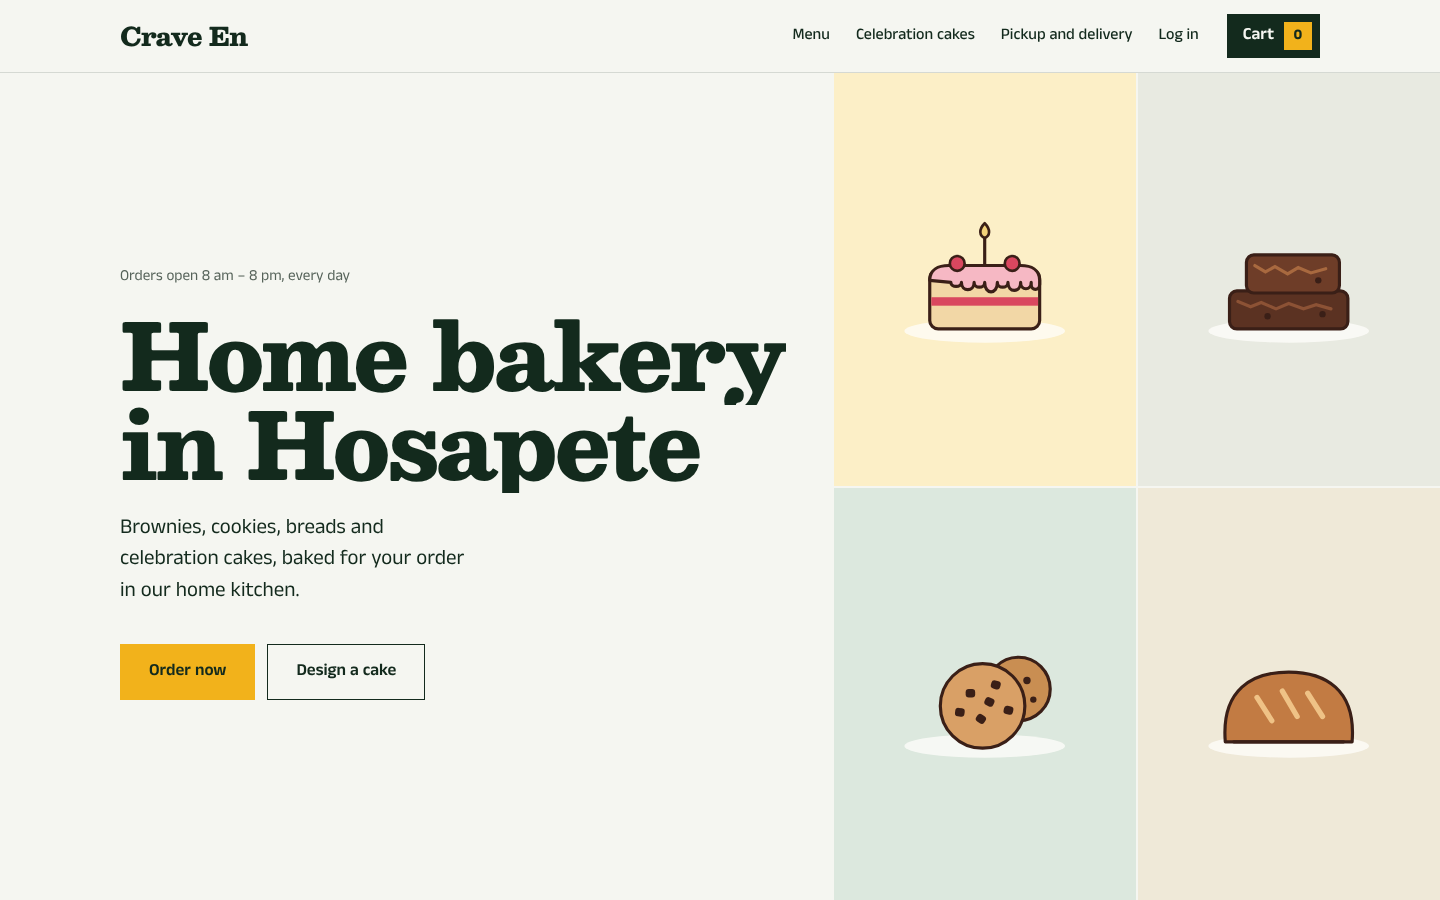
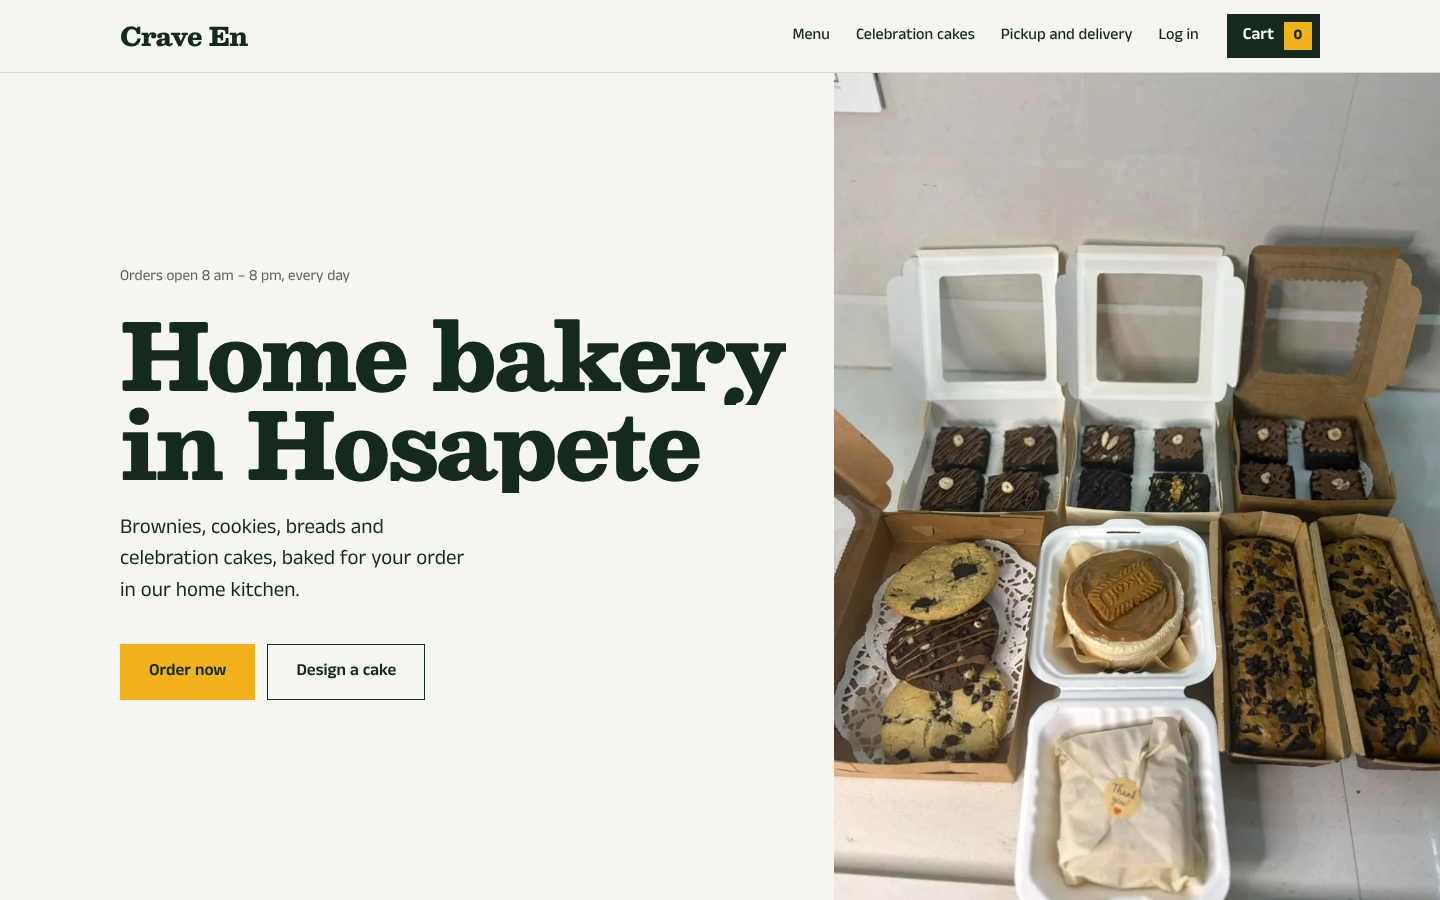
Add the bakery's own photos

diff --git a/client/src/photos.js b/client/src/photos.js
@@ -1,27 +1,39 @@
-// The bakery's own photographs for the home page.
-// Put the files in client/public/photos/ and write their paths here, e.g. '/photos/hero.jpg'.
+// The bakery's own photographs. The files live in client/public/photos/.
 // While a slot is null, the page shows the drawn bakes in its place.
-// Product photos are set per product in "Manage menu" (or by the photo script), not here.
 
 export const PHOTOS = {
-  // A wide shot of several bakes together, top of the home page
-  hero: null,
-  // Celebration cakes you have made (first one gets the message preview)
-  cakes: [null],
+  // Several bakes together, top of the home page
+  hero: '/photos/home/hero.webp',
+  // Celebration cakes (the first one gets the live message preview)
+  cakes: ['/photos/home/cake.webp'],
   // How an order is made: one photo per step, in order
-  process: [null, null, null, null],
-  // Packing or handing over an order
-  visit: null,
+  process: [
+    '/photos/home/step-1.webp',
+    '/photos/home/step-2.webp',
+    '/photos/home/step-3.webp',
+    '/photos/home/step-4.webp',
+  ],
+  // An order at its celebration
+  visit: '/photos/home/visit.webp',
 }
 
 export const PHOTO_ALT = {
-  hero: 'Brownies, cookies and a celebration cake from Crave En on the kitchen counter',
-  cakes: ['A celebration cake from Crave En'],
+  hero: 'Boxes of brownies, cookies, a biscoff cheesecake and chocolate chip loaves from Crave En',
+  cakes: ['A blue and white birthday cake with sugar flowers'],
   process: [
-    'Batter being mixed for an order',
-    'A tray of bakes coming out of the oven',
-    'A cake being finished by hand',
-    'An order packed in a box, ready to go',
+    'A bento cake with a pink number 11, in its box',
+    'A retirement cake decorated with a post box, calculator and "35 years of service"',
+    'A freshly made hazelnut brownie tub, held up to the camera',
+    'Boxes of hazelnut brownies and chocolate cupcakes, packed to go',
   ],
-  visit: 'An order packed and ready for pickup',
+  visit: 'A cheesecake on a brownie cake with strawberries, set out at a party table',
+}
+
+// Photos for menu items, by product slug. A photo the owner uploads in
+// "Manage menu" always wins; items without either show their drawing.
+export const PRODUCT_PHOTOS = {
+  'fudgy-chocolate-brownie': '/photos/menu/fudgy-chocolate-brownie.webp',
+  'chocolate-fudge-squares': '/photos/menu/chocolate-fudge-squares.webp',
+  'choco-chip-cookies': '/photos/menu/choco-chip-cookies.webp',
+  'vanilla-celebration-cake': '/photos/menu/vanilla-celebration-cake.webp',
 }

diff --git a/client/src/index.css b/client/src/index.css
@@ -213,7 +213,7 @@ p { margin: 0 0 0.8em; text-wrap: pretty; }
   margin-right: calc(-1 * max(var(--gutter), (100vw - var(--wrap)) / 2));
   background: var(--counter);
 }
-.hero-photo > img { position: absolute; inset: 0; width: 100%; height: 100%; object-fit: cover; }
+.hero-photo > img { position: absolute; inset: 0; width: 100%; height: 100%; object-fit: cover; object-position: 50% 62%; }
 
 /* Until real photos arrive: today's bakes as illustrations on a counter */
 .counter-fallback {
@@ -310,6 +310,7 @@ p { margin: 0 0 0.8em; text-wrap: pretty; }
   font-family: var(--display); font-weight: 700; font-size: clamp(1rem, 2.2vw, 1.375rem);
   color: var(--kumkum); text-align: center; line-height: 1.15; overflow-wrap: anywhere;
 }
+.cake-plaque-note { display: block; margin-top: 2px; font-family: var(--text); font-weight: 600; font-size: 0.8rem; color: var(--ink); }
 .cake-candles { position: absolute; top: 11%; display: flex; gap: 7px; }
 .candle {
   display: block; width: 7px; height: 32px; position: relative; transform-origin: bottom;
@@ -372,7 +373,7 @@ p { margin: 0 0 0.8em; text-wrap: pretty; }
 .visit-slots li { padding: 2px 0; }
 .visit-actions { display: flex; gap: 12px; flex-wrap: wrap; margin-top: 32px; }
 .visit-photo { grid-column: 7 / -1; position: relative; margin: 0; background: var(--counter); min-height: 320px; }
-.visit-photo > img { position: absolute; inset: 0; width: 100%; height: 100%; object-fit: cover; }
+.visit-photo > img { position: absolute; inset: 0; width: 100%; height: 100%; object-fit: cover; object-position: 50% 55%; }
 .visit-photo .product-art { position: absolute; inset: 0; }
 .visit-photo .product-art svg { width: 56%; }
 

diff --git a/client/src/components/ProductArt.jsx b/client/src/components/ProductArt.jsx
@@ -1,6 +1,7 @@
 import { useState } from 'react'
 import { motion } from 'motion/react'
 import { assetUrl } from '../utils'
+import { PRODUCT_PHOTOS } from '../photos'
 
 const INK = '#3a1f17'
 const S = { stroke: INK, strokeWidth: 3, strokeLinejoin: 'round', strokeLinecap: 'round' }
@@ -212,6 +213,12 @@ const ART = {
 }
 
 // layoutId lets the picture morph between the menu card and the product sheet.
+// The picture to show for a product: the owner's upload, else the bakery's own photo of it
+export function productPhoto(product) {
+  if (product?.imageUrl) return assetUrl(product.imageUrl)
+  return PRODUCT_PHOTOS[product?.slug] || null
+}
+
 export default function ProductArt({ product, className = '', eager = false, plate: plateOverride, layoutId, artRef, radius }) {
   const [imageFailed, setImageFailed] = useState(false)
   const plate = plateOverride || PLATE_COLORS[product.category] || '#f3d27a'
@@ -219,11 +226,12 @@ export default function ProductArt({ product, className = '', eager = false, pla
   const Wrapper = layoutId ? motion.div : 'div'
   const wrapperProps = layoutId ? { layoutId, transition: { type: 'spring', stiffness: 260, damping: 30 } } : {}
 
-  if (product.imageUrl && !imageFailed) {
+  const photo = productPhoto(product)
+  if (photo && !imageFailed) {
     return (
       <Wrapper ref={artRef} className={`product-art ${className}`} style={style} {...wrapperProps}>
         <img
-          src={assetUrl(product.imageUrl)}
+          src={photo}
           alt={product.name}
           loading={eager ? 'eager' : 'lazy'}
           onError={() => setImageFailed(true)}

diff --git a/client/src/components/CakeMessage.jsx b/client/src/components/CakeMessage.jsx
@@ -1,8 +1,11 @@
 import { AnimatePresence, motion } from 'motion/react'
 
-// Shows the message the customer is typing as a little plaque on the cake picture
-export default function CakeMessage({ text, candles = 0 }) {
-  const shownCandles = Math.min(candles, 10)
+// Shows the message the customer is typing as a little plaque on the cake picture.
+// On a drawing it also draws the candles; on a real photo it names them in the plaque instead.
+export default function CakeMessage({ text, candles = 0, photo = false }) {
+  const shownCandles = photo ? 0 : Math.min(candles, 10)
+  const message = text?.trim()
+  const candleNote = photo && candles > 0 ? `${candles} candle${candles === 1 ? '' : 's'}` : ''
   return (
     <div className="cake-message" aria-hidden="true">
       <AnimatePresence>
@@ -23,15 +26,17 @@ export default function CakeMessage({ text, candles = 0 }) {
         )}
       </AnimatePresence>
       <AnimatePresence>
-        {text?.trim() && (
+        {(message || candleNote) && (
           <motion.div
+            layout
             className="cake-plaque"
             initial={{ opacity: 0, scale: 0.92, y: 6 }}
             animate={{ opacity: 1, scale: 1, y: 0 }}
             exit={{ opacity: 0, scale: 0.96, transition: { duration: 0.15 } }}
             transition={{ type: 'spring', duration: 0.35, bounce: 0.2 }}
           >
-            {text}
+            {message}
+            {candleNote && <small className="cake-plaque-note">{message ? `with ${candleNote}` : candleNote}</small>}
           </motion.div>
         )}
       </AnimatePresence>

diff --git a/client/src/pages/Home.jsx b/client/src/pages/Home.jsx
@@ -5,7 +5,7 @@ import { getProducts } from '../api/client'
 import { BAKERY } from '../config'
 import { PHOTOS, PHOTO_ALT } from '../photos'
 import Photo from '../components/Photo'
-import ProductArt from '../components/ProductArt'
+import ProductArt, { productPhoto } from '../components/ProductArt'
 import ProductCard from '../components/ProductCard'
 import ProductSheet from '../components/ProductSheet'
 import QuantityStepper from '../components/QuantityStepper'
@@ -133,7 +133,7 @@ function CelebrationCakes({ cake, meta, onDesign }) {
           alt={PHOTO_ALT.cakes[0]}
           fallback={<ProductArt product={cake} />}
         >
-          <CakeMessage text={message} candles={candles} />
+          <CakeMessage text={message} candles={candles} photo={Boolean(PHOTOS.cakes[0] || productPhoto(cake))} />
         </Photo>
 
         <div className="cakes-actions">
@@ -284,10 +284,11 @@ export default function Home() {
     getProducts().then(setProducts).catch(() => setError(true))
   }, [])
 
+  // One row of bakes: those with real photos first, then the owner's featured picks
   const featured = useMemo(() => {
     if (!products) return null
-    const picked = products.filter(p => p.isFeatured)
-    return (picked.length ? picked : products).slice(0, 8)
+    const score = p => (productPhoto(p) ? 2 : 0) + (p.isFeatured ? 1 : 0)
+    return [...products].sort((a, b) => score(b) - score(a)).slice(0, 4)
   }, [products])
   const cake = products?.find(p => p.customizable && p.sizes?.length)
 

diff --git a/client/src/components/ProductSheet.jsx b/client/src/components/ProductSheet.jsx
@@ -3,7 +3,7 @@
 // The picture morphs from the card into the sheet (shared layoutId).
 import { useCallback, useEffect, useRef, useState } from 'react'
 import { AnimatePresence, motion, useDragControls } from 'motion/react'
-import ProductArt from './ProductArt'
+import ProductArt, { productPhoto } from './ProductArt'
 import ProductInfo from './ProductInfo'
 import CakeMessage from './CakeMessage'
 
@@ -55,7 +55,7 @@ function Sheet({ product, initialOptions, onClose }) {
         <button ref={closeRef} type="button" className="sheet-close" onClick={onClose} aria-label="Close">×</button>
         <div className="sheet-art-wrap">
           <ProductArt product={product} layoutId={`art-${product._id}`} artRef={artRef} className="sheet-art" radius={0} eager />
-          {product.customizable && <CakeMessage text={options.message} candles={options.candles} />}
+          {product.customizable && <CakeMessage text={options.message} candles={options.candles} photo={Boolean(productPhoto(product))} />}
         </div>
         <div className="sheet-body">
           <ProductInfo product={product} artRef={artRef} headingLevel="h2" showFullPageLink initialOptions={initialOptions} onOptionsChange={onOptionsChange} />

diff --git a/client/src/pages/ProductDetail.jsx b/client/src/pages/ProductDetail.jsx
@@ -2,7 +2,7 @@ import { useCallback, useEffect, useRef, useState } from 'react'
 import { Link, useParams } from 'react-router-dom'
 import { motion } from 'motion/react'
 import { errorMessage, getProduct } from '../api/client'
-import ProductArt from '../components/ProductArt'
+import ProductArt, { productPhoto } from '../components/ProductArt'
 import ProductInfo from '../components/ProductInfo'
 import CakeMessage from '../components/CakeMessage'
 
@@ -56,7 +56,7 @@ export default function ProductDetail() {
           className="sheet-art-wrap"
         >
           <ProductArt product={product} className="product-art-large" artRef={artRef} eager />
-          {product.customizable && <CakeMessage text={options.message} candles={options.candles} />}
+          {product.customizable && <CakeMessage text={options.message} candles={options.candles} photo={Boolean(productPhoto(product))} />}
         </motion.div>
         <ProductInfo product={product} artRef={artRef} onOptionsChange={onOptionsChange} />
       </div>

diff --git a/client/vite.config.js b/client/vite.config.js
@@ -32,8 +32,8 @@ export default defineConfig({
         navigateFallbackDenylist: [/^\/api\//, /^\/uploads\//, /^\/socket\.io\//],
         runtimeCaching: [
           {
-            // Product photos: show the saved copy, refresh it in the background
-            urlPattern: ({ url }) => url.pathname.startsWith('/uploads/') || url.hostname === 'res.cloudinary.com',
+            // Photos: show the saved copy, refresh it in the background
+            urlPattern: ({ url }) => url.pathname.startsWith('/photos/') || url.pathname.startsWith('/uploads/') || url.hostname === 'res.cloudinary.com',
             handler: 'StaleWhileRevalidate',
             options: { cacheName: 'product-photos', expiration: { maxEntries: 80, maxAgeSeconds: 30 * 24 * 3600 } },
           },
